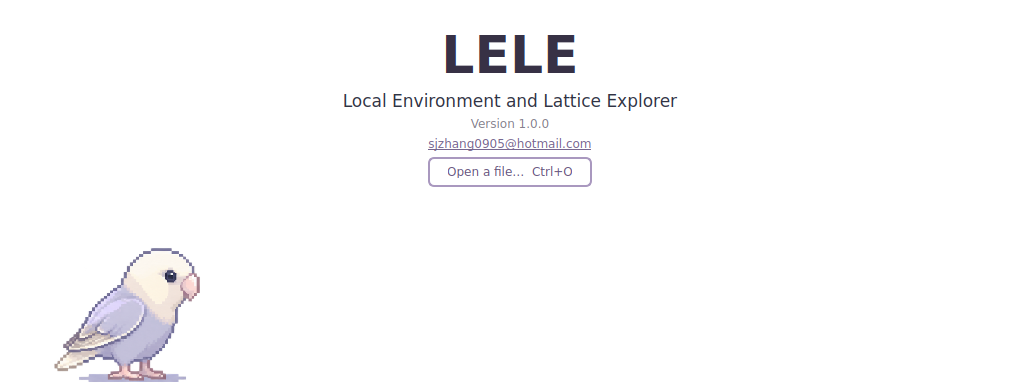
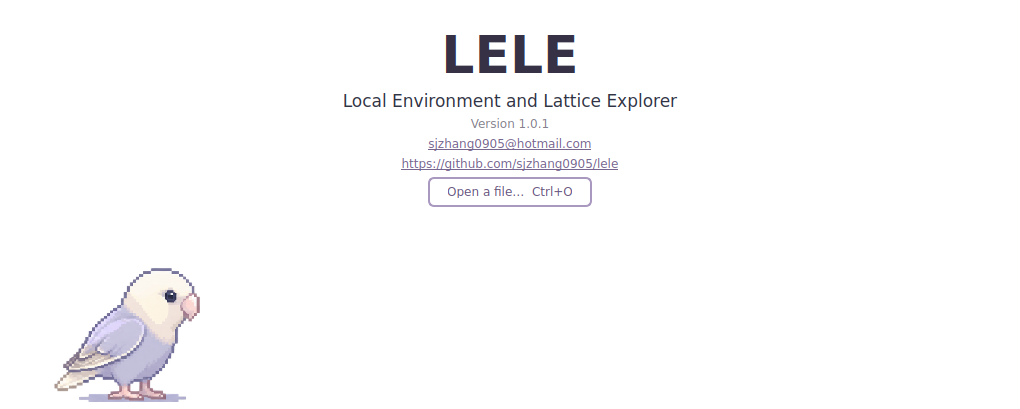
Release LELE 1.0.1 under MIT and add the welcome repository link
Replace proprietary and binary-only terms with MIT for current project releases, update package/distribution notices and Windows license copies, and display the repository URL below the welcome email.

Changed region(s): [[0.3343, 0.2159, 0.6686, 0.5244], [0.0608, 0.617, 0.2127, 0.9871], [0.4255, 0.0617, 0.5775, 0.1851]]

diff --git a/lele/welcome.py b/lele/welcome.py
@@ -9,7 +9,7 @@ from PySide6.QtGui import QColor, QPainter, QPalette, QPixmap, QTransform
 from PySide6.QtWidgets import (QGridLayout, QHBoxLayout, QLabel, QPushButton,
                                QScrollArea, QSizePolicy, QVBoxLayout, QWidget)
 
-from . import APP_CONTACT_EMAIL, APP_FULL_NAME, APP_NAME, __version__
+from . import APP_CONTACT_EMAIL, APP_FULL_NAME, APP_NAME, APP_REPOSITORY_URL, __version__
 
 
 POSE_INTERVAL_MS = 800
@@ -144,7 +144,7 @@ class WelcomePage(QScrollArea):
             QLabel#appName { color: #373145; font-size: 52px; font-weight: 700; }
             QLabel#appFullName { font-size: 17px; }
             QLabel#version { color: #85818D; font-size: 12px; }
-            QLabel#contactEmail { font-size: 12px; }
+            QLabel#contactEmail, QLabel#repositoryUrl { font-size: 12px; }
             QLabel#parrotCaption { color: #8B819B; font-size: 12px; }
             QLabel#sectionTitle { font-size: 17px; font-weight: 600; }
             QLabel#groupTitle { color: #77678F; font-size: 13px; font-weight: 600; }
@@ -181,6 +181,15 @@ class WelcomePage(QScrollArea):
         self.contact_label.setOpenExternalLinks(True)
         self.contact_label.setAccessibleName('Contact email: ' + APP_CONTACT_EMAIL)
         outer.addWidget(self.contact_label)
+        self.repository_label = QLabel(
+            f'<a style="color: #77678F;" href="{APP_REPOSITORY_URL}">{APP_REPOSITORY_URL}</a>')
+        self.repository_label.setObjectName('repositoryUrl')
+        self.repository_label.setAlignment(Qt.AlignmentFlag.AlignCenter)
+        self.repository_label.setTextInteractionFlags(
+            Qt.TextInteractionFlag.TextBrowserInteraction | Qt.TextInteractionFlag.TextSelectableByKeyboard)
+        self.repository_label.setOpenExternalLinks(True)
+        self.repository_label.setAccessibleName('Source repository: ' + APP_REPOSITORY_URL)
+        outer.addWidget(self.repository_label)
         start_row = QHBoxLayout()
         start_row.addStretch()
         self.open_button = QPushButton('Open a file…  Ctrl+O')

diff --git a/tests/test_welcome_v092.py b/tests/test_welcome_v092.py
@@ -14,7 +14,7 @@ from PySide6.QtTest import QTest
 from PySide6.QtWidgets import QApplication, QLabel, QWidget
 from vtkmodules.vtkRenderingCore import vtkRenderWindow, vtkRenderWindowInteractor
 
-from lele import APP_CONTACT_EMAIL, APP_FULL_NAME, APP_NAME, __version__
+from lele import APP_CONTACT_EMAIL, APP_FULL_NAME, APP_NAME, APP_REPOSITORY_URL, __version__
 from lele.app import LELEWindow
 from lele.welcome import WelcomePage, WALK_STEP_COUNT
 
@@ -84,7 +84,11 @@ class WelcomeTests(unittest.TestCase):
         self.assertIn('mailto:' + APP_CONTACT_EMAIL, page.contact_label.text())
         self.assertTrue(page.contact_label.openExternalLinks())
         self.assertGreaterEqual(page.contact_label.geometry().top(), page.version_label.geometry().bottom())
-        self.assertLess(page.contact_label.geometry().bottom(), page.open_button.geometry().top())
+        self.assertIn(APP_REPOSITORY_URL, page.repository_label.text())
+        self.assertIn('href="' + APP_REPOSITORY_URL + '"', page.repository_label.text())
+        self.assertTrue(page.repository_label.openExternalLinks())
+        self.assertLess(page.contact_label.geometry().bottom(), page.repository_label.geometry().top())
+        self.assertLess(page.repository_label.geometry().bottom(), page.open_button.geometry().top())
         self.assertFalse(window.windowIcon().isNull())
         self.assertFalse(window.windowIcon().pixmap(32, 32).isNull())
         self.assertEqual(page.parrot_walk.findChildren(QLabel), [])

diff --git a/lele/__init__.py b/lele/__init__.py
@@ -1,7 +1,8 @@
 #!/usr/bin/env python3
 """Local Environment and Lattice Explorer."""
-__version__ = "1.0.0"
+__version__ = "1.0.1"
 APP_NAME = "LELE"
 APP_FULL_NAME = "Local Environment and Lattice Explorer"
 APP_CONTACT_EMAIL = "sjzhang0905@hotmail.com"
+APP_REPOSITORY_URL = "https://github.com/sjzhang0905/lele"
 APP_TITLE = f"{APP_NAME} {__version__} - {APP_FULL_NAME}"

diff --git a/README.md b/README.md
@@ -4,7 +4,8 @@
 
 LELE is a desktop workbench for visualizing and editing molecular and periodic
 structures, inspecting calculation outputs, and exploring atomic environments.
-Version **1.0.0** displays the author contact below the welcome version and
+Version **1.0.1** uses the MIT License and displays the author contact and
+repository URL below the welcome version. It
 includes the four-frame parrot gait, electron parity without a total electron
 count, and standing-parrot application/Windows EXE icon. Commands remain grouped into menus, with X/Y/Z views and on-demand
 plane fitting. LELE continues the features of ChemView Studio 0.9.0.
@@ -20,7 +21,8 @@ Contact: [sjzhang0905@hotmail.com](mailto:sjzhang0905@hotmail.com)
 - A white startup page with the application name, version, shortcut reference
   and 乐乐 walking across the canvas; poses change every 0.8 seconds.
   The contact email appears immediately below the version and can be copied
-  or clicked to open an email application.
+  or clicked to open an email application. A selectable GitHub link below the
+  email opens the project repository in a browser.
 
 - Structure import and conversion through the bundled ChemStructConverter
   backend and ASE, including XYZ, Gaussian inputs, CIF and POSCAR.
@@ -60,7 +62,7 @@ the caption “Meet 乐乐 · LELE's little explorer” remains below the animat
 The animation stops when the page is hidden.
 The shortcut columns reflow and the page scrolls on smaller windows.
 
-![Welcome header and contact](examples/welcome_preview.png)
+![Welcome header, contact and repository](examples/welcome_preview.png)
 
 ## Planned extensions
 
@@ -78,11 +80,11 @@ Use **64-bit CPython 3.12** (recommended) or **3.11**.
 2. Double-click `start_windows.bat` to create `.venv`, install dependencies and
    launch LELE.
 3. Confirm that the title displays
-   `LELE 1.0.0 - Local Environment and Lattice Explorer`.
+   `LELE 1.0.1 - Local Environment and Lattice Explorer`.
 
 To build an executable, run `build_windows.bat` after the first successful
 launch. The result is `dist/LELE/LELE.exe`. Distribute the complete `dist/LELE`
-directory, including `_internal`.
+directory, including `_internal`, `LICENSE` and `SOURCE_NOTICE.md`.
 
 Both `build_windows.bat` and the Windows GitHub Actions build embed
 `lele/assets/lele.ico` into the executable. The icon uses the first standing
@@ -145,7 +147,7 @@ workflow artifact; it does not publish a release. Test runs triggered by a push
 or pull request are listed in the repository’s Actions tab. The Windows build
 is started separately using Windows executable → Run workflow.
 
-See `docs/VALIDATION_v1.0.0.md` for the local checks and their limits.
+See `docs/VALIDATION_v1.0.1.md` for the local checks and their limits.
 
 ## Appearance settings
 
@@ -160,10 +162,10 @@ Earlier release notes and validation records are kept in `docs/history` under
 their original project name. The bundled conversion backend retains its
 ChemStructConverter name and attribution.
 
-LELE's original source code, documentation and assets are **proprietary, with
-all rights reserved**. This is not an open-source release. Use, modification
-and redistribution require the author's written permission; see [LICENSE](LICENSE).
+LELE's original source code, documentation, assets and author-distributed
+binaries use the **MIT License** from version 1.0.1. See [LICENSE](LICENSE).
+Third-party components retain their own licences and copyright notices;
+see [SOURCE_NOTICE.md](SOURCE_NOTICE.md).
 
-The existing binary-only terms in `licenses/BINARY_ONLY_LICENSE` apply to
-separately distributed executables. Third-party components and dependencies
-retain their own licences. See [SOURCE_NOTICE.md](SOURCE_NOTICE.md).
+The earlier binary-only licence is archived under `docs/history` as historical
+text and does not apply to version 1.0.1 or later.

diff --git a/docs/VALIDATION_v1.0.1.md b/docs/VALIDATION_v1.0.1.md
@@ -1,0 +1,33 @@
+# LELE 1.0.1 验证记录
+
+日期：2026-10-26
+
+## 修改内容
+
+- 根目录 LICENSE 改为 MIT License，保留 2026 sjzhang0905 版权声明。
+- 包元数据使用 `license = "MIT"`，安装包仅把根目录 LICENSE 识别为当前项目许可。
+- 原 binary-only 条款归档至 `docs/history/BINARY_ONLY_LICENSE_pre_v1.0.1.txt`，
+  明确不适用于 1.0.1 及以后版本；移除原活动路径。历史版本的变更、验证记录保持原意。
+- 同步中英文说明和 SOURCE_NOTICE；第三方组件继续保留各自许可和版权声明。
+- 欢迎页在联系邮箱下显示 `https://github.com/sjzhang0905/lele`，支持选择复制和点击打开。
+- 程序、包元数据和 Windows 启动器更新为 1.0.1；Windows 分发目录增加 LICENSE 和 SOURCE_NOTICE.md。
+
+## 验证结果
+
+- 完整回归测试：**130 项测试通过，64 个子测试通过**，无失败、无跳过。
+- Qt 界面检查确认仓库链接位于邮箱下方、打开按钮上方，链接地址正确并启用外部链接。
+- 已查看实际 Qt 生成的欢迎页预览，确认版本号、邮箱、仓库地址完整显示。
+- 实际生成 1.0.1 wheel，确认 `License-Expression: MIT`，且仅含一个 `License-File: LICENSE`；
+  安装包中的许可文本与根目录 LICENSE 一致，不包含活动的 binary-only 许可文件。
+- 在临时输出目录执行 GitHub Windows 构建使用的版本/许可复制语句，确认 VERSION.txt 为 1.0.1，
+  LICENSE 和 SOURCE_NOTICE.md 均正确复制；检查本地批处理对应语句的语法与目标路径。
+
+```bash
+QT_QPA_PLATFORM=offscreen VTK_DEFAULT_OPENGL_WINDOW=vtkEGLRenderWindow python -m pytest tests -q
+python -m pip wheel --no-deps --no-build-isolation . -w /tmp/lele-wheel
+```
+
+## 环境与范围
+
+Linux、Python 3.12.14、PySide6 6.12.0、VTK 9.7.1、ASE 3.29.0。
+本次未在当前环境构建 Windows EXE；GitHub 自动检查和合并结果以相应 PR、提交和 Actions 记录为准。

diff --git a/SOURCE_NOTICE.md b/SOURCE_NOTICE.md
@@ -1,16 +1,20 @@
 # Source and distribution notice
 
-Copyright (c) 2026 sjzhang0905. All rights reserved.
+Copyright (c) 2026 sjzhang0905.
 
-The original LELE source code, documentation and assets are governed by the
-proprietary, all-rights-reserved terms in the root LICENSE file. Repository
-access does not grant an open-source licence. The source repository is
-https://github.com/sjzhang0905/lele.
+From LELE 1.0.1, the original LELE source code, documentation, assets and
+binaries distributed by the author use the MIT License in the root LICENSE
+file. Include that copyright and permission notice when redistributing copies
+or substantial portions of the original project material.
 
-The existing `Binary-Only Freeware License` is retained verbatim in
-`licenses/BINARY_ONLY_LICENSE` for the author's executable distributions. Its
-own text states that it does not provide or license source code.
+Repository: https://github.com/sjzhang0905/lele
+Contact: sjzhang0905@hotmail.com
 
 Third-party packages, including ASE, NumPy, SciPy, PySide6, VTK and Matplotlib,
-retain their respective licences. The bundled ChemStructConverter backend
-retains its original identity.
+retain their respective licences and copyright notices. The MIT License for
+LELE does not replace those third-party terms. The bundled ChemStructConverter
+backend retains its original identity and any applicable third-party notices.
+
+The superseded binary-only terms are archived in
+`docs/history/BINARY_ONLY_LICENSE_pre_v1.0.1.txt` for historical reference.
+They do not apply to LELE 1.0.1 or later.

diff --git a/docs/GITHUB_PREPARATION_CN.md b/docs/GITHUB_PREPARATION_CN.md
@@ -1,6 +1,6 @@
 # LELE 开发与发布
 
-当前版本：**1.0.0**。欢迎页版本号下显示联系邮箱 **sjzhang0905@hotmail.com**。
+当前版本：**1.0.1**。欢迎页版本号下显示联系邮箱 **sjzhang0905@hotmail.com**，其下方显示可点击的仓库地址。项目采用 **MIT 协议**。
 
 源码仓库：[sjzhang0905/lele](https://github.com/sjzhang0905/lele)。
 
@@ -39,8 +39,6 @@ git push origin main
 
 ## 源码与可执行文件
 
-本仓库用于 LELE 源码开发。原创源码、文档和素材采用根目录 `LICENSE` 中的专有许可，保留所有权利。第三方组件和依赖保留其各自许可。
+从 1.0.1 起，本仓库的 LELE 原创源码、文档、素材和作者分发的可执行程序采用根目录 `LICENSE` 中的 MIT 协议。分发时保留所需版权和许可声明；第三方组件和依赖继续适用其各自许可。
 
-单独发布的可执行文件适用 `licenses/BINARY_ONLY_LICENSE`。原来的 `standalone_Windows_executable` 仓库可继续作为可执行文件的发布入口；源码和程序包分别维护。
-
-后续若决定采用 MIT、GPL 或其他开放源码许可，应由作者明确修改许可文件和相关说明。
+旧 binary-only 协议保留在 `docs/history/BINARY_ONLY_LICENSE_pre_v1.0.1.txt`，仅供历史参考，不适用于 1.0.1 及以后版本。原来的 `standalone_Windows_executable` 仓库可继续用于可执行文件发布。

diff --git a/CHANGELOG.md b/CHANGELOG.md
@@ -1,5 +1,15 @@
 # Changelog
 
+## 1.0.1 — 2026-10-26
+
+- Switch original LELE source, documentation, assets and author-distributed
+  binaries to the MIT License. Update package metadata and distribution
+  notices, and archive the superseded binary-only terms as historical text.
+- Add a selectable, clickable GitHub repository URL below the contact email
+  on the welcome page.
+- Set the application, package and Windows launcher version to 1.0.1.
+- Include the MIT license and source/distribution notice in Windows build outputs.
+
 ## 1.0.0 — 2026-10-26
 
 - Display sjzhang0905@hotmail.com immediately below the welcome version;
